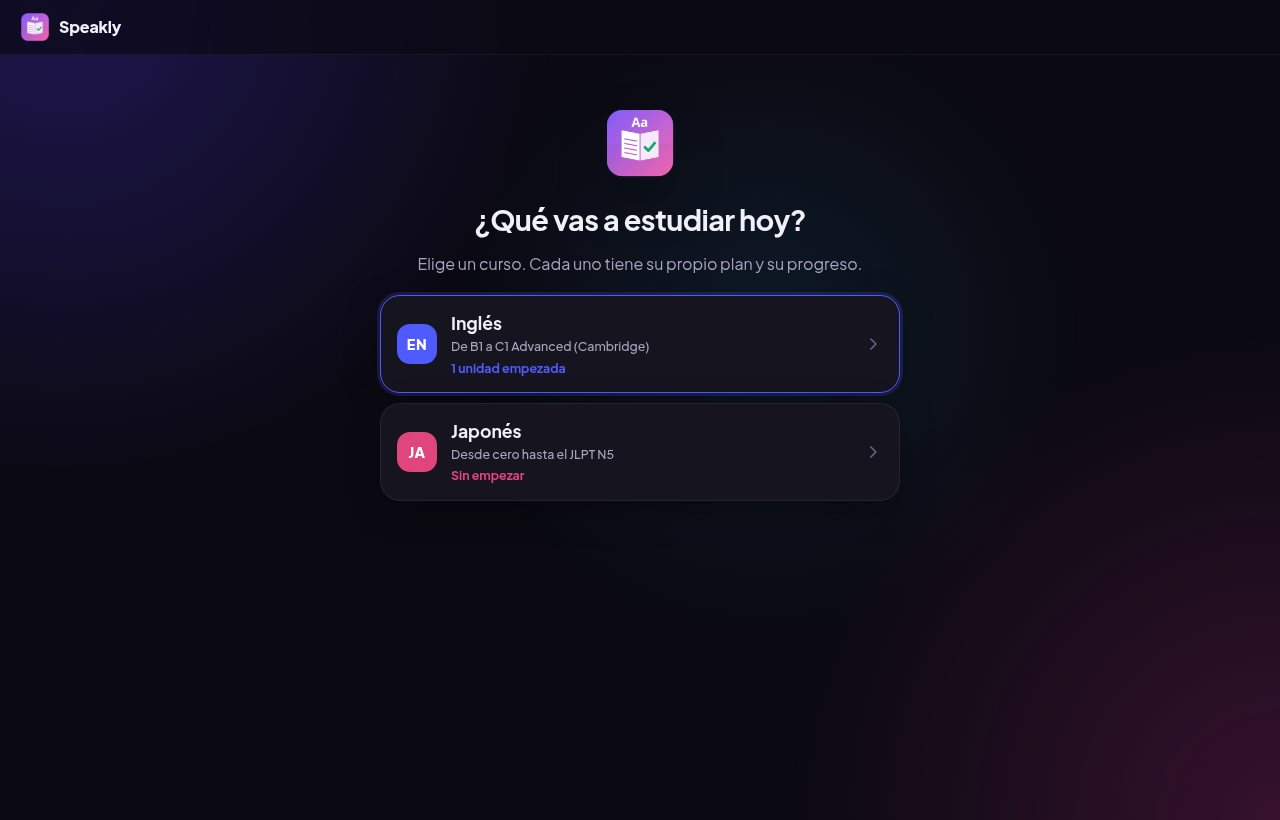
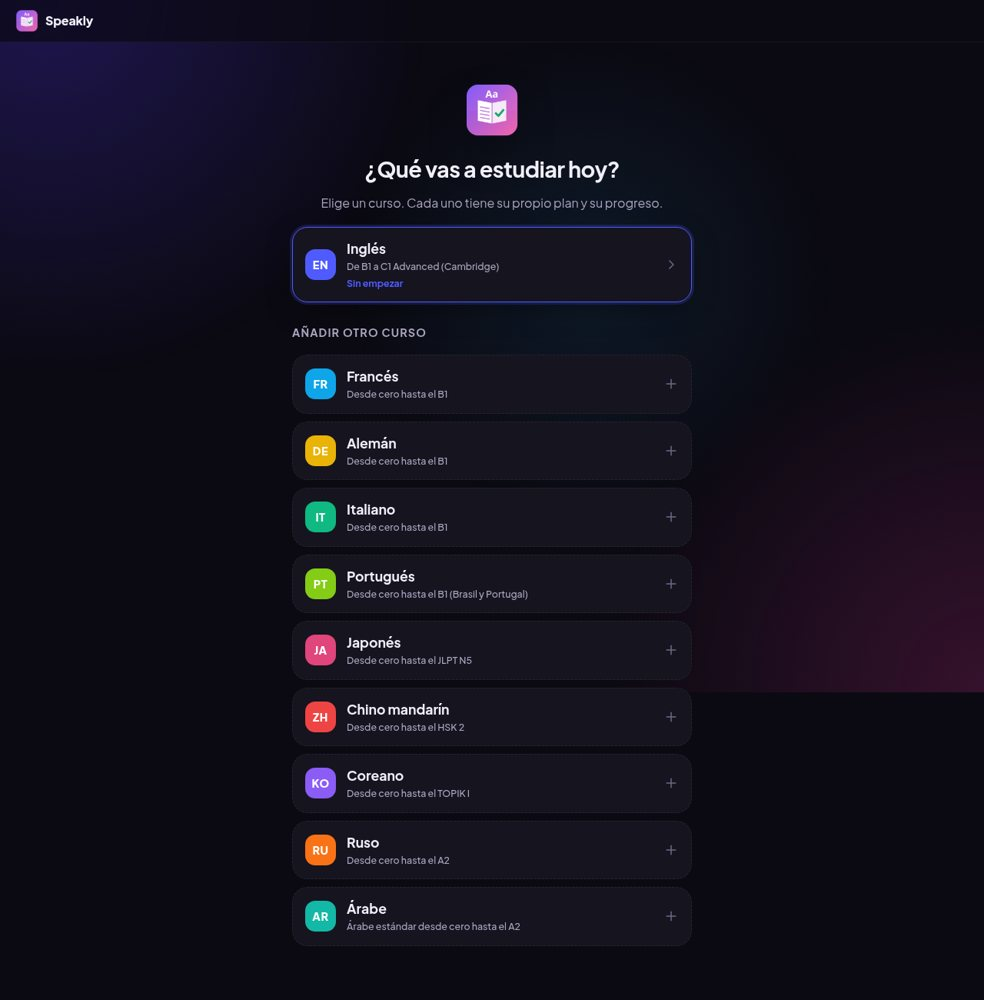
README y web con los diez idiomas

diff --git a/website/index.html b/website/index.html
@@ -4,7 +4,7 @@
   <meta charset="utf-8">
   <meta name="viewport" content="width=device-width, initial-scale=1, viewport-fit=cover">
   <title>Speakly</title>
-  <meta name="description" content="Tu ruta para aprender idiomas: inglés de B1 a C1 y japonés desde cero. Teoría clara, ejercicios que se corrigen solos, lecturas que te enseñan a desmontar frases largas y vocabulario con repetición espaciada. Gratis para Android, Linux y Windows.">
+  <meta name="description" content="Aprende idiomas a tu ritmo: inglés, francés, alemán, italiano, portugués, japonés, chino, coreano, ruso y árabe. Teoría clara, ejercicios que se corrigen solos, lecturas que te enseñan a desmontar frases largas y vocabulario con repetición espaciada. Gratis para Android, Linux y Windows.">
   <meta property="og:title" content="Speakly · Aprende idiomas estudiando desde casa">
   <meta property="og:description" content="Abre la app cada día y sabrás exactamente qué estudiar. Gratis para Android, Linux y Windows.">
   <meta property="og:image" content="img/p-hoy.jpg">
@@ -176,7 +176,7 @@
         <div class="rise">
           <span class="pill"><b>v2.6</b> Nuevo: estudia por niveles o con calendario, a tu ritmo</span>
           <h1>Aprende idiomas <span class="grad">a tu ritmo</span>, desde casa.</h1>
-          <p class="lead">Inglés de B1 a C1 y japonés desde cero. Tú eliges cómo estudiar: por niveles, unos módulos al día, o con un plan de calendario de 30 minutos a 3 horas. Teoría clara, ejercicios que se corrigen solos y lecturas que te enseñan a desmontar frases largas.</p>
+          <p class="lead">Diez idiomas: inglés, francés, alemán, italiano, portugués, japonés, chino, coreano, ruso y árabe. Tú eliges cómo estudiar: por niveles, unos módulos al día, o con un plan de calendario de 30 minutos a 3 horas. Teoría clara, ejercicios que se corrigen solos y lecturas que te enseñan a desmontar frases largas.</p>
           <div class="ctas">
             <a class="btn primary" id="hero-dl" href="#descargar">
               <svg viewBox="0 0 24 24" fill="none" stroke="currentColor" stroke-width="2.4" stroke-linecap="round" stroke-linejoin="round"><path d="M12 3v12m0 0-5-5m5 5 5-5M4 21h16"/></svg>
@@ -195,7 +195,7 @@
       </div>
       <div class="wrap">
         <div class="stats">
-          <div><b>2</b><span>cursos: inglés y japonés</span></div>
+          <div><b>10</b><span>idiomas para elegir</span></div>
           <div><b>30 min – 3 h</b><span>al día, tú eliges</span></div>
           <div><b>4</b><span>tipos de ejercicio</span></div>
           <div><b>0 €</b><span>gratis, sin trampas</span></div>
@@ -308,7 +308,7 @@
           <details><summary>¿Cómo instalo el APK en mi Android?</summary><ol><li>Abre esta web en el móvil y pulsa <b>Descargar APK</b>.</li><li>Abre el archivo desde la notificación de descarga.</li><li>Android te pedirá permiso para <b>instalar apps de esta fuente</b> (Chrome o Archivos): actívalo y vuelve atrás.</li><li>Pulsa <b>Instalar</b>. Si sale Play Protect, toca <b>Más detalles → Instalar de todas formas</b>: sale porque la app no viene de Google Play.</li></ol></details>
           <details><summary>¿Y en iPhone?</summary><p>Abre <a href="app/">la versión web</a> en Safari, pulsa Compartir y luego <b>Añadir a pantalla de inicio</b>. Funciona como una app y sin conexión.</p></details>
           <details><summary>¿Cómo paso mi progreso del ordenador al móvil?</summary><p>Si tienes Jellyfin, entra con el mismo usuario en la pestaña <b>Series</b> de los dos dispositivos y se sincroniza solo. Si no, en ⚙ Ajustes exporta tu progreso en uno e impórtalo en el otro.</p></details>
-          <details><summary>¿Hay más idiomas?</summary><p>Sí. Al abrir la app eliges el curso: <b>inglés de B1 a C1</b> o <b>japonés desde cero</b> (hiragana, katakana y JLPT N5). Cada curso tiene su propio plan y su progreso.</p></details>
+          <details><summary>¿Qué idiomas hay?</summary><p>Diez: <b>inglés</b> (de B1 a C1), <b>francés</b>, <b>alemán</b>, <b>italiano</b> y <b>portugués</b> (de cero a B1), <b>japonés</b> (hasta el JLPT N5), <b>chino</b> (hasta el HSK 2), <b>coreano</b> (hasta el TOPIK I), <b>ruso</b> y <b>árabe</b> (hasta el A2). Cada curso tiene su propio plan y su progreso. Las unidades se van publicando poco a poco: el inglés es el más avanzado.</p></details>
           <details><summary>¿Qué es el chat de la esquina?</summary><p>Un chat pequeño con Claude para preguntar dudas de gramática y pedir traducciones sin salir de la app. Usa tu propia clave de API de Anthropic: cada pregunta cuesta muy poco, pero no es gratis.</p></details>
           <details><summary>¿Hay libro de gramática?</summary><p>Sí, propio y gratis: toda la teoría de la ruta está en la sección <b>Libro</b> de la app, y también en <a href="libro/Speakly-Libro-B1.pdf">PDF para imprimir</a> (nivel B1+; el B2 y el C1 se irán añadiendo).</p></details>
           <details><summary>¿Es gratis de verdad?</summary><p>Sí. Ni cuentas, ni anuncios, ni suscripciones.</p></details>

diff --git a/README.md b/README.md
@@ -6,7 +6,7 @@
 
 <p align="center">
   <b>Aprende idiomas a tu ritmo, desde casa.</b><br>
-  Inglés de B1 a C1 Advanced y japonés desde cero, con teoría clara, ejercicios que se corrigen solos y lecturas que te enseñan a desmontar frases largas.
+  Diez idiomas, del inglés y el francés al japonés, el chino o el árabe, con teoría clara, ejercicios que se corrigen solos y lecturas que te enseñan a desmontar frases largas.
 </p>
 
 <p align="center">
@@ -91,7 +91,7 @@ El calendario se recalcula solo y te enseña qué días llevas hechos, a medias 
 
 Al abrir la app eliges el curso. Cada uno guarda su propio progreso, y puedes añadir otro cuando quieras.
 
-<p align="center"><img src="docs/capturas/cursos.jpg" width="820" alt="Selector de cursos"></p>
+<p align="center"><img src="docs/capturas/cursos.jpg" width="560" alt="Selector de cursos con los diez idiomas"></p>
 
 ### Teoría y práctica
 
@@ -134,10 +134,20 @@ El botón de arriba a la izquierda abre un chat pequeño para preguntar dudas y 
 
 ## Cursos disponibles
 
-| Curso | Niveles | Estado |
+| Curso | Niveles | Unidades escritas |
 |---|---|---|
-| **Inglés** · de B1 a C1 Advanced (Cambridge) | B1+ · B2 · C1 · Examen (formato y simulacros) | Unidades 1–8 (B1+) escritas; se van añadiendo |
-| **Japonés** · desde cero hasta el JLPT N5 | Escritura (hiragana y katakana) · Primeros pasos · JLPT N5 | Hiragana 1–4 escritos; se van añadiendo |
+| **Inglés** · de B1 a C1 Advanced (Cambridge) | B1+ · B2 · C1 · Examen (formato y simulacros) | 8 de 26 |
+| **Francés** · desde cero hasta el B1 | A1 · A2 · B1 | 2 de 24 |
+| **Alemán** · desde cero hasta el B1 | A1 · A2 · B1 | 2 de 24 |
+| **Italiano** · desde cero hasta el B1 | A1 · A2 · B1 | 2 de 24 |
+| **Portugués** · desde cero hasta el B1 (Brasil y Portugal) | A1 · A2 · B1 | 2 de 24 |
+| **Japonés** · desde cero hasta el JLPT N5 | Escritura (hiragana y katakana) · Primeros pasos · JLPT N5 | 4 de 20 |
+| **Chino mandarín** · desde cero hasta el HSK 2 | Sonidos y tonos · HSK 1 · HSK 2 | 2 de 20 |
+| **Coreano** · desde cero hasta el TOPIK I | Hangul · Primeros pasos · TOPIK I | 2 de 20 |
+| **Ruso** · desde cero hasta el A2 | Cirílico · A1 · A2 | 2 de 20 |
+| **Árabe** estándar · desde cero hasta el A2 | Alfabeto · A1 · A2 | 2 de 20 |
+
+Cada curso tiene su ruta completa planificada; las unidades se van escribiendo y publicando poco a poco. La app usa la voz del sistema en el idioma de cada curso y, en Jellyfin, busca los subtítulos en ese idioma.
 
 Todo el contenido es original, escrito para la app; no está copiado de ningún libro.
 
@@ -202,8 +212,8 @@ Una sola base de código en `src/` (HTML, CSS y JavaScript sin bundler) para las
 
 ```
 src/                  la app (compartida por todas las plataformas)
-├─ courses/           cursos: registry.js (lista, curso activo y forma de estudiar) y el plan de cada uno (en.js, ja.js)
-├─ units/, units-ja/  contenido de las unidades: teoría, ejercicios y lectura
+├─ courses/           cursos: registry.js (lista, curso activo y forma de estudiar) y el plan de cada uno (en.js, fr.js, ja.js…)
+├─ units*/            contenido de las unidades de cada idioma: teoría, ejercicios y lectura
 ├─ course.js          convierte el temario en un calendario (modo plan)
 ├─ app.js             pantallas: Hoy, Ruta, recorrido por niveles, calendario, series y ajustes
 ├─ unit.js            teoría, práctica, lectura desmontada y libro
@@ -232,7 +242,7 @@ Para probar la versión web basta con servir `src/`, por ejemplo con `python3 -m
 
 ### Añadir una unidad
 
-1. Crea `src/units/uXX.js` (o `src/units-ja/jXX.js`) con el mismo formato que las demás: `theory`, `exercises` y `reading`, con las frases desmontadas por papeles (`S V O R C X W`).
+1. Crea el fichero en la carpeta del idioma (`src/units/uXX.js` para inglés, `src/units-fr/fXX.js` para francés…) con el mismo formato que las demás: `theory`, `exercises` y `reading`, con las frases desmontadas por papeles (`S V O R C X W`).
 2. Añade el fichero a `files` del curso en `src/courses/registry.js`.
 3. Si es de inglés, regenera el PDF del libro.
 
